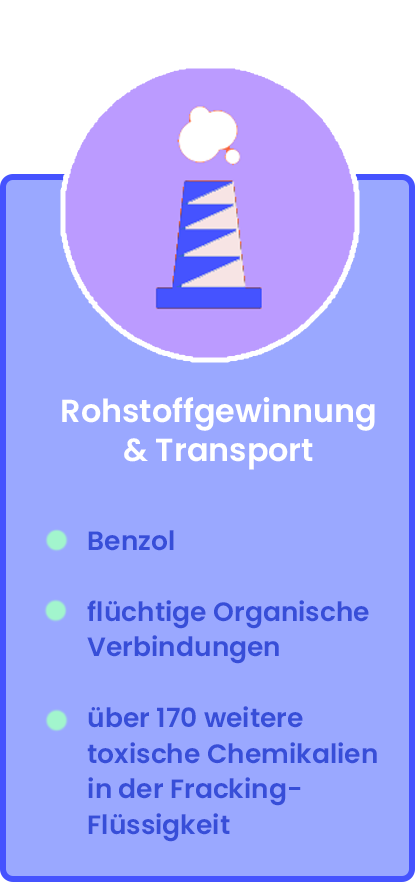
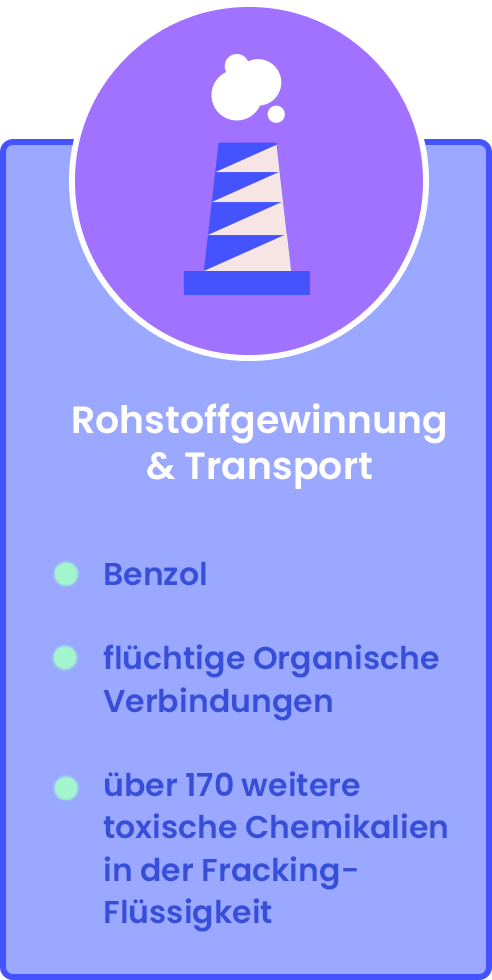
WIP screen 7,8,9

diff --git a/static/index.html b/static/index.html
@@ -79,32 +79,31 @@
             <div class="label">Auswirkungen von Schadstoffen</div>
         </a></li>
         <li><a id="6"
-               data-19400="background-color: rgb(135,145,243,0);"
-               data-19900="background-color: rgb(135,145,243,1);"
-               data-21900="background-color: rgb(135,145,243,1);"
-               data-22700="background-color: rgb(135,145,243,0);"
+               data-20300="background-color: rgb(135,145,243,0);"
+               data-20900="background-color: rgb(135,145,243,1);"
+               data-23300="background-color: rgb(135,145,243,1);"
+               data-23900="background-color: rgb(135,145,243,0);"
                href="#seventh"
-               data-menu-top="19900"
+               data-menu-top="20900"
                onmouseover="showNavLabel(this)" onmouseout="hideNavLabel(this)">
             <div class="label">Unter der Lupe</div>
         </a></li>
         <li><a id="7"
-               data-19400="background-color: rgb(135,145,243,0);"
-               data-19900="background-color: rgb(135,145,243,1);"
-               data-21900="background-color: rgb(135,145,243,1);"
-               data-22700="background-color: rgb(135,145,243,0);"
+               data-23300="background-color: rgb(135,145,243,0);"
+               data-23900="background-color: rgb(135,145,243,1);"
+               data-25900="background-color: rgb(135,145,243,1);"
+               data-26500="background-color: rgb(135,145,243,0);"
+
                href="#eighth"
-               data-menu-top="19900"
+               data-menu-top="23900"
                onmouseover="showNavLabel(this)" onmouseout="hideNavLabel(this)">
             <div class="label">Impressum</div>
         </a></li>
         <li><a id="8"
-               data-19400="background-color: rgb(135,145,243,0);"
-               data-19900="background-color: rgb(135,145,243,1);"
-               data-21900="background-color: rgb(135,145,243,1);"
-               data-22700="background-color: rgb(135,145,243,0);"
+               data-25900="background-color: rgb(135,145,243,0);"
+               data-26500="background-color: rgb(135,145,243,1);"
                href="#ninth"
-               data-menu-top="19900"
+               data-menu-top="26500"
                onmouseover="showNavLabel(this)" onmouseout="hideNavLabel(this)">
             <div class="label">Quellen</div>
         </a></li>
@@ -265,13 +264,13 @@
 
 
         <img id="direct_info"
-            style="bottom: 13%; left:8.8%; height: 40.3%;"
+            style="bottom: 4%; left:7.5%; width: 12.7%;"
              src="new_images/fourth/1.Kasten.png"
              data-12100="opacity: 0;"
              data-13100="opacity: 1;">
 
         <img id="indirect_info"
-            style="bottom: 13%; right:8.8%; height: 38%;"
+            style="bottom: 4%; right:7.5%; width: 12.7%;"
              src="new_images/fourth/5.Kasten.png"
              data-12100="opacity: 0;"
              data-13100="opacity: 1;">
@@ -364,10 +363,10 @@
          data-15100="top: 100%;"
          data-15700="top: 0%; opacity: 0;"
          data-16000="opacity: 1;"
-         data-16400="opacity: 1;"
-         data-16700="opacity: 0;"
-         data-16700="top:0%;"
-         data-17300="top: -100%;">
+         data-17400="opacity: 1;"
+         data-17700="opacity: 0;"
+         data-17700="top:0%;"
+         data-18300="top: -100%;">
 
 
 
@@ -422,10 +421,10 @@
 
 
     <div id="sixth"
-         data-16700="top: 100%;"
-         data-17300="top: 0%;"
-         data-19300="top:0%;"
-         data-19900="top: -100%;">
+         data-17700="top: 100%;"
+         data-18300="top: 0%;"
+         data-20300="top:0%;"
+         data-20900="top: -100%;">
 
 
                     <!-- Here, we create three inner divs for a three-column view of images
@@ -506,70 +505,60 @@
     </div>
 
 
-</div>
 
+    <div id="seventh"
+         data-20300="top: 100%;"
+         data-20900="top: 0%;"
+         data-23300="top:0%;"
+         data-23900="top: -100%;">
 
-
-<!--This is the Image box, which contains all divs that hold images
-    The image divs are resized by a script, you do not need to care about it -->
-    <div id="image_box" class="image_box" style="display: none;">
-
-        <div id="auswirkungen_1">
-
-            <div class="center_image"
-                 style="width: 30%;  height: 100%; background-color: #0E162A;">
-            </div>
-
-            <div class="center_image"
-                 style="width: 70%;  height: 100%">
-                <img id="health_issue_picture"
-                     src="image/Screen_6_Menschen_vorne.png"
-                     alt=""
-                     style="height: 90%; margin-bottom: 0;">
-            </div>
-
-        </div>
 
         <div id="objekte" class="center_image">
-            <img src="image/Screen_8_Objekte.png" style="height: 100%; width: 100%;">
-            <img id="particle_image" src="image/Screen_8_Punkte.png" style="height: 100%; width: 100%;" >
+            <img src="new_images/seventh/Illustration.png" style="height: 100%; width: 100%;">
+            <img id="particle_image" src="new_images/seventh/Punkteebene.png" style="height: 100%; width: 100%;" >
 
         </div>
 
-        <div id="impressum" class="center_image">
-        </div>
-        <div id="quellen" class="center_image">
-        </div>
 
-    </div>
+        <div id="objekte_text"
+                 data-21400="opacity: 0;"
+                 data-21700="opacity: 1;">
 
-
-    <!-- This is text box div, containing all text-related content
-         The text will be overlayed onto the images and scrolled by a parallax-effect
-         Again, do not care about sizing, just about structure -->
-    <div id="text_box" class="text_box" style="display: none;">
-
-
-        <div id="objekte_text">
-
-            <img src="image/Text_bubble_Screen_7.png" style="margin-left: 70%; margin-top: 10%; width: 20%; object-fit: scale-down;">
-            <div id="magnifier-glass"  class="center_image" style="position: absolute">
+            <div id="magnifier-glass"
+                 class="center_image" style="position: absolute">
                 <img id="glass" src="image/Lupe.png" style="width: 20%;">
             </div>
 
         </div>
 
+    </div>
+
+
+    <div id="eigth"
+         data-23300="top: 100%;"
+         data-23900="top: 0%;"
+         data-25900="top:0%;"
+         data-26500="top: -100%;">
 
         <div id="impressum_text" class="center_text">
-            <p style="font-size: 49pt;margin-bottom: 3%">Impressum</p>
-            <p style="font-size: 20pt;margin-top: 0%; color: white">
+            <p style="font-size: 49pt;margin-bottom: 3%, font-family: 'Poppins', sans-serif;">Impressum</p>
+            <p style="font-size: 20pt;margin-top: 0%; ">
                 <br/>Marlene Hilbig
                 <br/>Lukas Meitz
                 <br/>Dany Leonnel Kenne Keubou
                 <br/>Xianzhi Zhang
             </p>
         </div>
-        <div id="quellen_text" class="center_text">
+
+
+    </div>
+
+
+     <div id="ninth"
+         data-25900="top: 100%;"
+         data-26500="top: 0%;">
+
+         <div id="quellen_text" class="center_text">
             <p style="font-size: 49pt;">Quellen</p>
             <ol class="quell">
                 <li>
@@ -598,6 +587,44 @@
 
     </div>
 
+
+</div>
+
+
+
+<!--This is the Image box, which contains all divs that hold images
+    The image divs are resized by a script, you do not need to care about it -->
+    <div id="image_box" class="image_box" style="display: none;">
+
+        <div id="auswirkungen_1">
+
+            <div class="center_image"
+                 style="width: 30%;  height: 100%; background-color: #0E162A;">
+            </div>
+
+            <div class="center_image"
+                 style="width: 70%;  height: 100%">
+                <img id="health_issue_picture"
+                     src="image/Screen_6_Menschen_vorne.png"
+                     alt=""
+                     style="height: 90%; margin-bottom: 0;">
+            </div>
+
+        </div>
+
+        <div id="impressum" class="center_image">
+        </div>
+        <div id="quellen" class="center_image">
+        </div>
+
+    </div>
+
+
+    <!-- This is text box div, containing all text-related content
+         The text will be overlayed onto the images and scrolled by a parallax-effect
+         Again, do not care about sizing, just about structure -->
+
+
     <!-- You do not need to care about the background, it is handled by a script -->
     <div id="background_box" class="background_box"
         data-start="background: hsl(318, 22%, 88%); top: 0%;"
@@ -612,7 +639,10 @@
         data-10100="background: hsl(318, 22%, 88%);"
         data-16700="background: hsl(318, 22%, 88%);"
 
-        data-17300="background: hsl(290, 13%, 18%);"
+        data-18300="background: hsl(290, 13%, 18%);"
+        data-20300="background: hsl(290, 13%, 18%);"
+
+        data-20900="background: hsl(320, 16%, 82%);"
     >
 
     </div>

diff --git a/static/style.css b/static/style.css
@@ -262,6 +262,7 @@ body {
     background-color:  #8791F3;
     text-decoration: none;
 }
+
 .label {
     position: relative;
     top: -60%;
@@ -271,7 +272,7 @@ body {
     font-size: 1em;
     color: rgb(0, 0, 0);
     display: none;
-    font-family: 'Roboto';
+    font-family: 'Poppins', sans-serif;
     font-weight: 400;
 }
 
@@ -280,9 +281,10 @@ body {
     width: 80%;
     height: 70%;
 }
+
 .quell li{
-    font-family: 'Roboto';
+    font-family: 'Poppins', sans-serif;
     font-size: 10pt;
-    color: white;
+    color: #8791F3;
     padding-bottom: 15px;
 }

diff --git a/static/style_skrollr.css b/static/style_skrollr.css
@@ -147,8 +147,14 @@
 }
 
 
+#eigth p {
+   color: #8791F3;
+}
 
 
+#ninth p {
+   color: #8791F3;
+}
 
 
 @keyframes hop {
